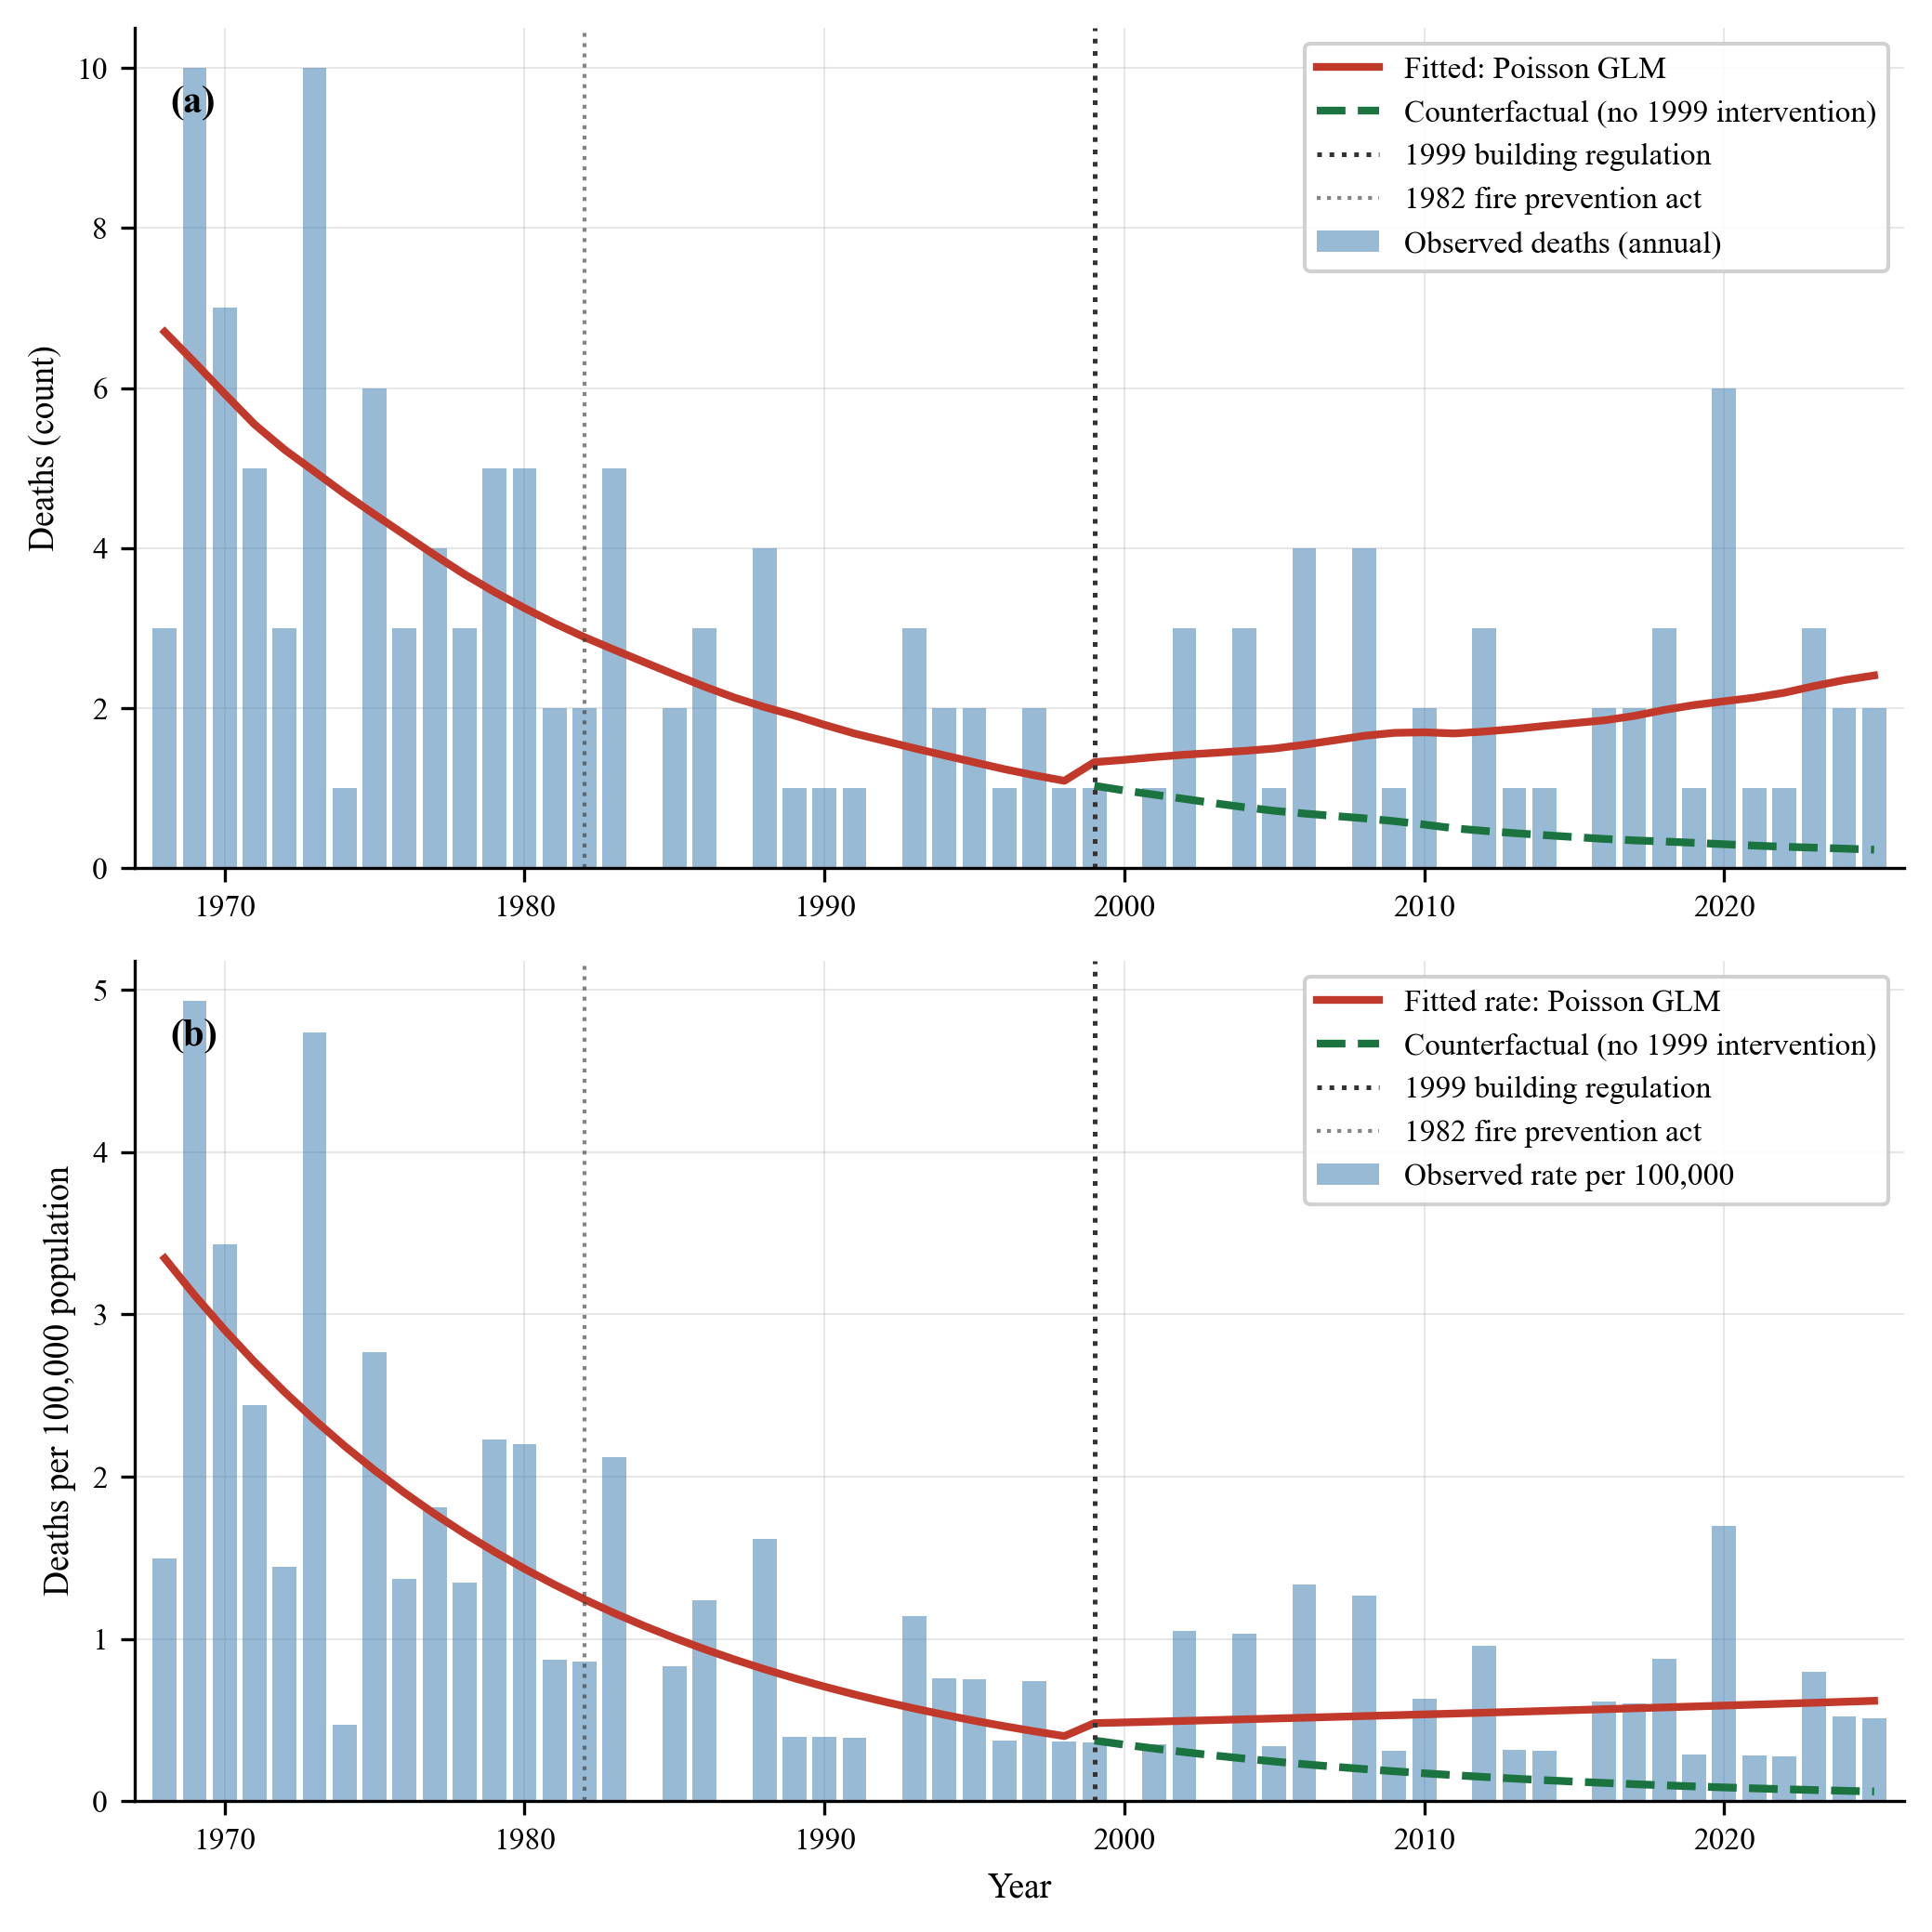
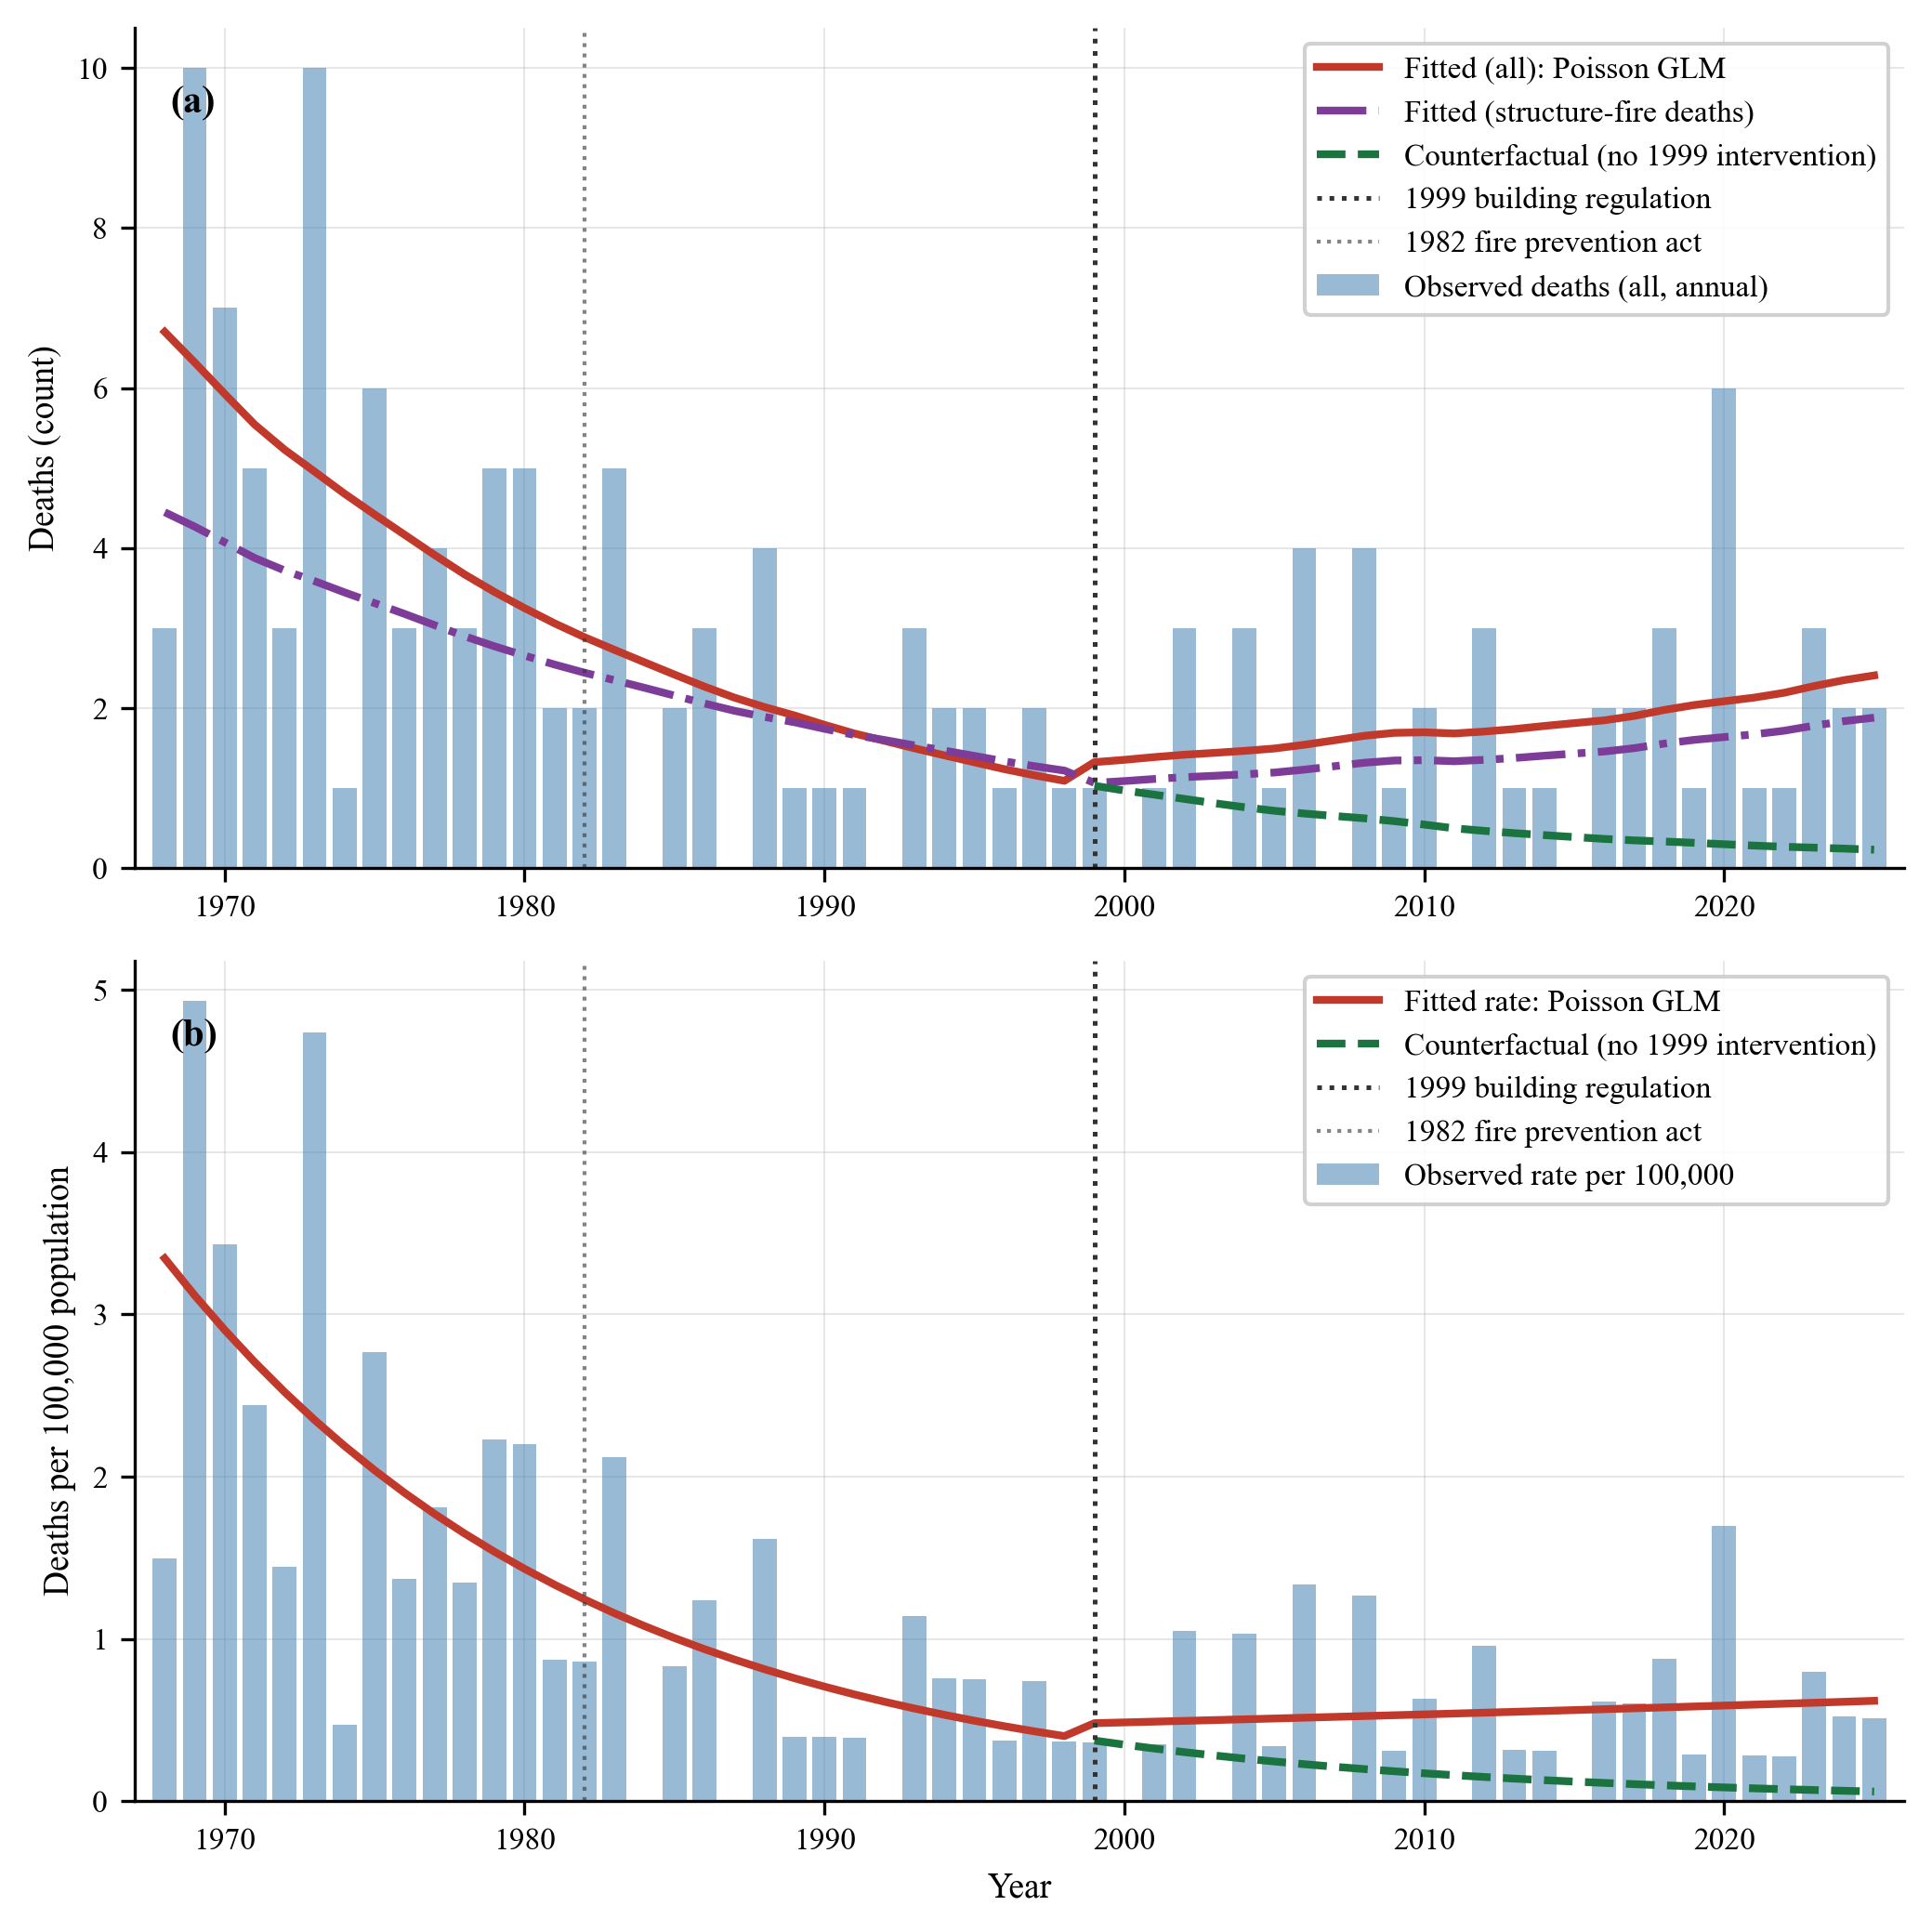
S-tier revision: exact rate-ratio inference, blinded second-coding, ITSA table
- M3 (exact inference): headline is now exact post/pre Poisson rate ratios with
  exact conditional 95% CIs. Every CI excludes 1 under all three classification
  conventions (standard 0.10 [0.002-0.58], strict 0 [0-0.38], worst 0.19
  [0.02-0.75]); incident-level upper limits 0.45/0.69/0.91. The reduction is
  statistically significant, not just "bound below the point estimate."
- M4 (blinded second-coding): scripts/blinded_second_coding.py — two models
  independently re-code the 45 1996-2025 incidents blind to construction year;
  97.8% agreement, Cohen's kappa 0.93. Closes the circularity objection.
- M1: symmetric-cohort reporting + in-building "other" deaths table (§S2).
- M5: full ITSA coefficient table (all series x distributions); structure-fire
  fit added to the ITSA figure (advanced_analyses.py).
- verify_statistics.py extended to 105 checks (rate-ratio CIs + kappa), all pass.

diff --git a/scripts/blinded_second_coding.py b/scripts/blinded_second_coding.py
@@ -1,0 +1,123 @@
+#!/usr/bin/env python3
+"""
+Blinded independent second coding of the structure-vs-other classification
+(peer-review item M4). Two frontier models act as independent second coders,
+each shown ONLY the fire-mechanism description of every fatal incident in the
[phone redacted] window (municipality, address, incident type, and free-text notes) —
+with the construction year and the original label withheld — and asked to apply
+the paper's predefined relevance rule. Agreement with the lead author's original
+coding is summarised as raw agreement and Cohen's kappa.
+
+    python scripts/blinded_second_coding.py
+
+Keys read at run time from env / Vault-Secrets (never printed).
+Author: Magnús Smári Smárason | smarason.is
+"""
+import os, re, json, glob, pathlib, urllib.request
+import pandas as pd
+
+HERE = pathlib.Path(__file__).parent
+DATA = HERE.parent / "data"
+OUT = HERE.parent / "output" / "generated"
+OUT.mkdir(parents=True, exist_ok=True)
+
+structure = pd.read_csv(DATA / "fire_incidents_deaths_structure.csv")
+other = pd.read_csv(DATA / "fire_incidents_deaths_other.csv")
+
+# Build the blinded 1996-2025 coding set (construction_year and label withheld)
+def recs(df, label):
+    df = df[(df.year >= 1996) & (df.year <= 2025)].copy()
+    out = []
+    for _, r in df.iterrows():
+        out.append({
+            "id": r["id"][:8],
+            "year": int(r["year"]),
+            "municipality": r.get("municipality", ""),
+            "location": r.get("address", "") if "address" in df.columns else "",
+            "incident_type": r.get("incident_type", r.get("type_of_fire", "")),
+            "type_of_fire": r.get("type_of_fire", ""),
+            "notes": "" if pd.isna(r.get("notes")) else str(r.get("notes", "")),
+            "_orig": label,
+        })
+    return out
+
+records = recs(structure, "structure") + recs(other, "other")
+blind = [{k: v for k, v in r.items() if k != "_orig"} for r in records]
+orig = [r["_orig"] for r in records]
+print(f"Blinded coding set: {len(records)} incidents (1996-2025), "
+      f"{orig.count('structure')} structure / {orig.count('other')} other (original).")
+
+RULE = (
+    "You are independently coding fatal fire incidents for a study. For EACH incident, "
+    "classify it as 'structure' or 'other' using ONLY this predefined rule:\n"
+    "- 'structure': the fire originated in or spread THROUGH a building's structure, so that "
+    "building-integrated fire safety features (egress, compartmentation, detection, suppression) "
+    "were relevant to the fatality.\n"
+    "- 'other': the fatality occurred in a ship, vehicle, motorhome, tent, shed, open explosion, "
+    "or was a localized ignition in which structural fire spread was NOT the mechanism.\n"
+    "You are NOT told the building's construction year; classify purely on the fire mechanism. "
+    "Return ONLY a JSON array of objects {\"id\": <id>, \"code\": \"structure\"|\"other\"}, one per incident, no prose."
+)
+
+
+def vault_key(fname, prefix):
+    for f in glob.glob(os.path.expanduser(f"~/Vault-Secrets/Apps/{fname}")):
+        m = re.search(prefix + r"[A-Za-z0-9\-_]+", pathlib.Path(f).read_text(errors="ignore"))
+        if m:
+            return m.group(0)
+    return None
+
+
+def code_with(model_name, provider, slug):
+    payload_msg = RULE + "\n\nIncidents:\n" + json.dumps(blind, ensure_ascii=False)
+    if provider == "anthropic":
+        key = vault_key("skuggi-anthropic.md", "sk-ant-")
+        body = {"model": slug, "max_tokens": 8000,
+                "messages": [{"role": "user", "content": payload_msg}]}
+        req = urllib.request.Request("https://api.anthropic.com/v1/messages",
+                                     data=json.dumps(body).encode(),
+                                     headers={"x-api-key": key, "anthropic-version": "2023-06-01",
+                                              "content-type": "application/json"})
+        r = json.loads(urllib.request.urlopen(req, timeout=300).read())
+        text = "".join(b.get("text", "") for b in r["content"] if b.get("type") == "text")
+    else:  # openrouter
+        key = vault_key("openrouter-api.md", "sk-or-v1-")
+        body = {"model": slug, "max_tokens": 8000, "temperature": 0,
+                "messages": [{"role": "user", "content": payload_msg}]}
+        req = urllib.request.Request("https://openrouter.ai/api/v1/chat/completions",
+                                     data=json.dumps(body).encode(),
+                                     headers={"Authorization": f"Bearer {key}", "content-type": "application/json"})
+        r = json.loads(urllib.request.urlopen(req, timeout=300).read())
+        text = r["choices"][0]["message"]["content"]
+    m = re.search(r"\[.*\]", text, re.S)
+    coded = {d["id"]: d["code"] for d in json.loads(m.group(0))}
+    return [coded.get(r["id"], "?") for r in blind]
+
+
+def cohen_kappa(a, b):
+    n = len(a)
+    cats = ["structure", "other"]
+    po = sum(x == y for x, y in zip(a, b)) / n
+    pe = sum((a.count(c) / n) * (b.count(c) / n) for c in cats)
+    return po, (po - pe) / (1 - pe) if pe < 1 else 1.0
+
+
+CODERS = [("Sonnet 5", "anthropic", "claude-sonnet-5"),
+          ("GPT-5.5", "openrouter", "openai/gpt-5.5")]
+rows = []
+for name, prov, slug in CODERS:
+    try:
+        coded = code_with(name, prov, slug)
+        po, k = cohen_kappa(orig, coded)
+        disagreements = [(records[i]["year"], records[i]["municipality"], orig[i], coded[i])
+                         for i in range(len(orig)) if orig[i] != coded[i]]
+        print(f"\n[{name}] raw agreement {po*100:.1f}% ({sum(o==c for o,c in zip(orig,coded))}/{len(orig)}), "
+              f"Cohen's kappa = {k:.3f}")
+        for d in disagreements:
+            print(f"    disagree: {d[0]} {d[1]} (orig={d[2]}, {name}={d[3]})")
+        rows.append({"coder": name, "n": len(orig), "raw_agreement": round(po, 4),
+                     "cohen_kappa": round(k, 3), "n_disagree": len(disagreements)})
+    except Exception as e:
+        print(f"[{name}] FAILED: {type(e).__name__}: {e}")
+pd.DataFrame(rows).to_csv(OUT / "blinded_second_coding.csv", index=False)
+print(f"\nSaved -> {OUT / 'blinded_second_coding.csv'}")

diff --git a/scripts/verify_statistics.py b/scripts/verify_statistics.py
@@ -223,6 +223,36 @@ check("All modeled-denominator bounds < pre-1998 point 0.554",
 
 
 # ══════════════════════════════════════════════════════════════════════════
+section("7b. Exact rate-ratio inference (headline) — every 95% CI excludes 1")
+def rr_ci(a, T1, b, T2):
+    rr = (a/T1)/(b/T2)
+    lo = 0.0 if a == 0 else stats.beta.ppf(0.025, a, b+1)
+    hi = stats.beta.ppf(0.975, a+1, b)
+    to = lambda pi: (pi/(1-pi))*(T2/T1) if pi < 1 else float("inf")
+    return rr, to(lo), to(hi)
+for lab, a, exp_hi in [("strict", 0, 0.377), ("standard", 1, 0.575), ("worst", 2, 0.752)]:
+    rr, lo, hi = rr_ci(a, PY_POST1998, 38, PY_PRE1998)
+    check(f"Death-level RR {lab} upper 95% CI < 1 (= {exp_hi})", hi, exp_hi, tol=0.02)
+    check(f"Death-level RR {lab} CI excludes 1", int(hi < 1.0), 1)
+# incident level (pre b=32)
+for lab, a, exp_hi in [("strict", 0, 0.451), ("standard", 1, 0.691), ("worst", 2, 0.905)]:
+    rr, lo, hi = rr_ci(a, PY_POST1998, 32, PY_PRE1998)
+    check(f"Incident-level RR {lab} upper 95% CI < 1 (= {exp_hi})", hi, exp_hi, tol=0.03)
+
+
+# ══════════════════════════════════════════════════════════════════════════
+section("7c. Blinded second-coding reliability (if run)")
+bcsv = os.path.join(os.path.dirname(DATA), "output", "generated", "blinded_second_coding.csv")
+if os.path.exists(bcsv):
+    bc = pd.read_csv(bcsv)
+    check("Blinded coders n = 45 incidents", int(bc["n"].iloc[0]), 45)
+    check("Cohen's kappa >= 0.9 for all coders", int((bc["cohen_kappa"] >= 0.9).all()), 1)
+    check("Raw agreement >= 0.95 for all coders", int((bc["raw_agreement"] >= 0.95).all()), 1)
+else:
+    print("  [skip] run scripts/blinded_second_coding.py to generate reliability stats")
+
+
+# ══════════════════════════════════════════════════════════════════════════
 section("8. ITSA — corrected segmented parameterization")
 comb = annual(alld); mc = itsa(comb)
 def irr(m,n): return math.exp(m.params[n])

diff --git a/scripts/advanced_analyses.py b/scripts/advanced_analyses.py
@@ -485,14 +485,30 @@ if primary_model is not None:
 
     observed_rate = annual_deaths["deaths"] / annual_deaths["population_1jan"] * 100_000
 
+    # Structure-fire deaths fit (peer-review M5: show structure-only in the figure)
+    struct_annual = (
+        structure.groupby("year")["deaths"].sum()
+        .reindex(range(1968, 2026), fill_value=0).reset_index()
+    )
+    struct_annual.columns = ["year", "deaths"]
+    struct_annual = struct_annual.merge(annual_deaths[["year", "population_1jan"]], on="year")
+    struct_annual["time"] = struct_annual["year"] - 1968
+    struct_annual["post1999"] = (struct_annual["year"] >= INTERVENTION_YEAR_MAIN).astype(int)
+    struct_annual["time_since_1999"] = (struct_annual["year"] - INTERVENTION_YEAR_MAIN).clip(lower=0)
+    struct_annual["log_pop"] = np.log(struct_annual["population_1jan"])
+    struct_fit = smf.glm("deaths ~ time + post1999 + time_since_1999", struct_annual,
+                         family=sm.families.Poisson(), offset=struct_annual["log_pop"]).fit()
+
     fig, axes = plt.subplots(2, 1, figsize=(7, 7))
 
     # Panel (a): Raw counts + fitted
     ax = axes[0]
     ax.bar(annual_deaths["year"], annual_deaths["deaths"],
-           color="#4682B4", alpha=0.55, label="Observed deaths (annual)")
+           color="#4682B4", alpha=0.55, label="Observed deaths (all, annual)")
     ax.plot(annual_deaths["year"], primary_model.fittedvalues,
-            color="#C0392B", linewidth=2, label=f"Fitted: {primary_label}")
+            color="#C0392B", linewidth=2, label=f"Fitted (all): {primary_label}")
+    ax.plot(struct_annual["year"], struct_fit.fittedvalues,
+            color="#7D3C98", linewidth=2, linestyle="-.", label="Fitted (structure-fire deaths)")
     if cf_rate is not None:
         ax.plot(annual_deaths["year"][annual_deaths["year"] >= INTERVENTION_YEAR_MAIN],
                 (cf_rate * annual_deaths["population_1jan"] / 100_000)[